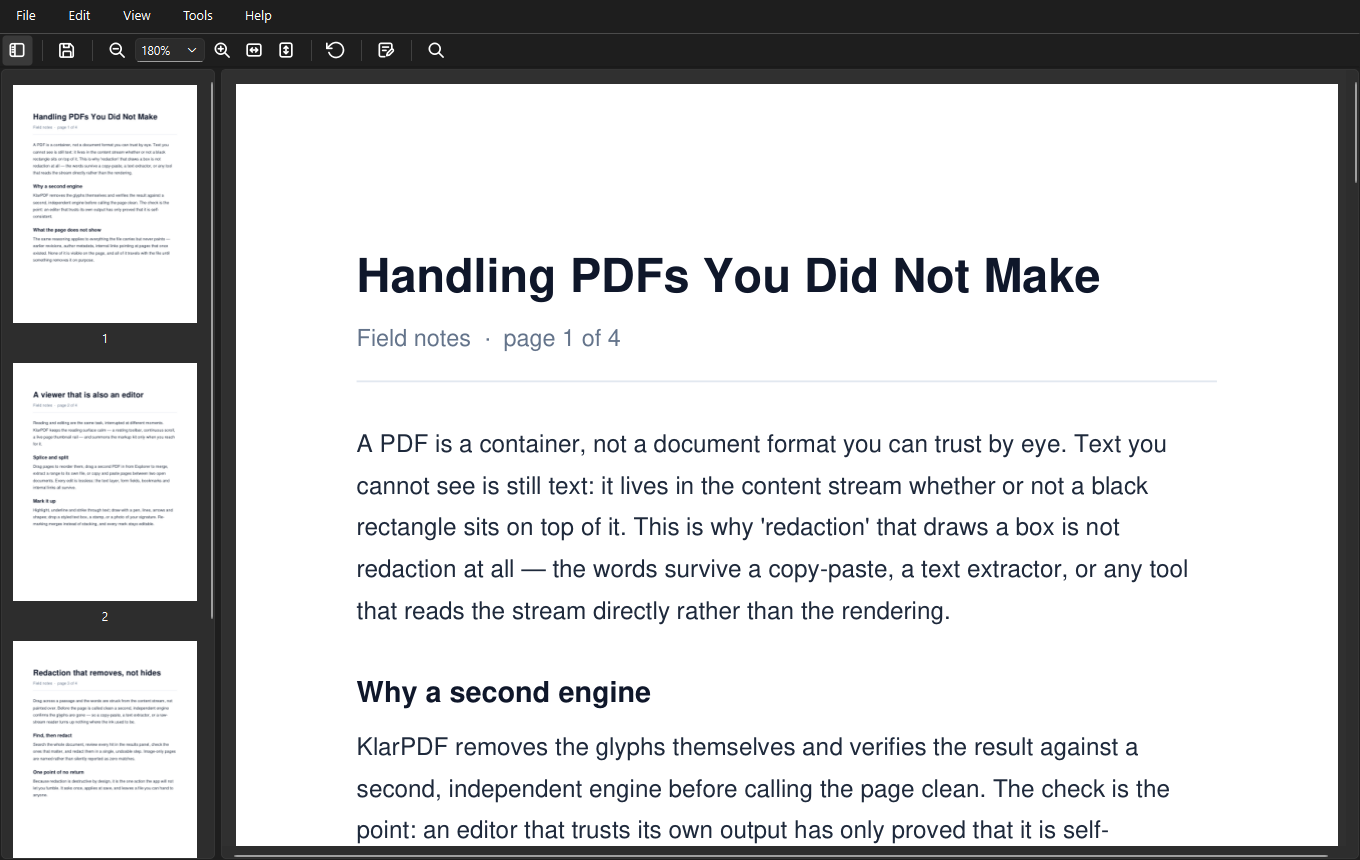
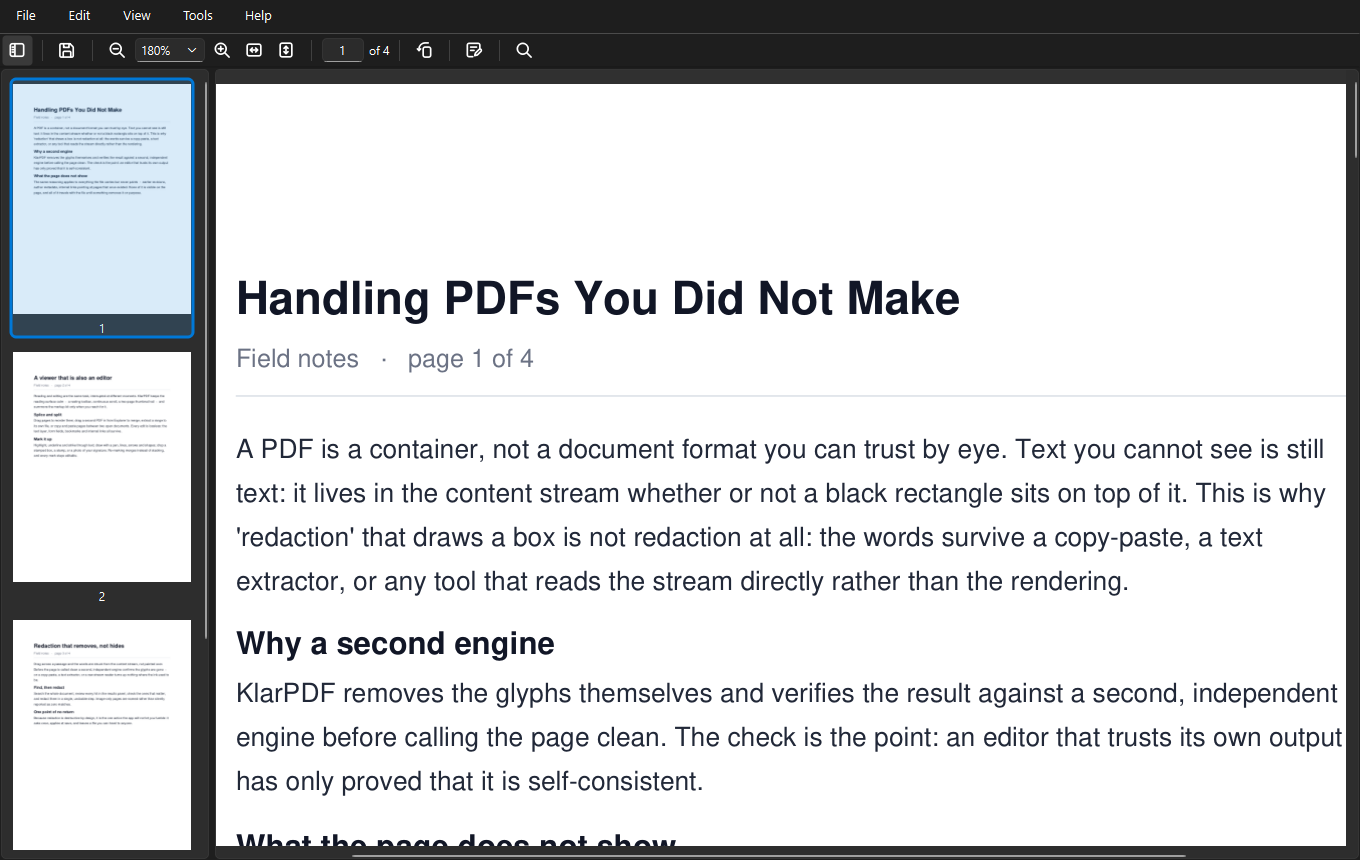
Release v0.17.0 — scrolling that behaves
Bumps version.py to 0.17.0 and updates the three status surfaces together
(README.md, PROGRESS.md, CLAUDE.md), per RELEASE.md section 3 step 2.

Ships M91 (whitespace fidelity, glyph legibility, reading position) and M92
(mouse-wheel scrolling): a wheel click now moves a defined, zoom-scaled
distance instead of a slice of the window, eased over 200 ms behind
View > Smooth Scrolling; the coast-mute is bounded so the wheel can never be
dead for long; prefetch is off the scroll's critical path, which was the whole
of the image-page stall; and the glide lands on the first/last page instead of
restarting into it. Reading also gains the editable page counter and
Space/PgUp/PgDn paging from anywhere.

README's Features inventory gains the two new user-facing entries (scrolling
behaviour + the page counter), per CLAUDE.md's rule that the inventory is
updated whenever a release adds or changes a user-facing feature.

Screenshots regenerated, and the recipe is now a committed tool. The v0.16
screenshots were captured by hand with the recipe unrecorded, so they had
silently rotted two milestones out of date - no page counter, the pre-M91.2
rotate glyph. tools/make_screenshots.py builds its own four-page demo document
(so a screenshot can never contain anything real) and captures both themes in
one run. Two things it has to do, both learned here and both now enforced in
the tool and corrected in BRAND.md:

  * The colour scheme must be forced BEFORE the window is created, one fresh
[…]

Changed region(s): [[0.0, 0.0907, 1.0, 0.9977], [0.2779, 0.0302, 0.3706, 0.0605]]

diff --git a/tools/make_screenshots.py b/tools/make_screenshots.py
@@ -1,0 +1,228 @@
+"""Regenerate the README app screenshots — `assets/screenshots/klarpdf-{light,dark}.png`.
+
+    .venv/Scripts/python.exe tools/make_screenshots.py
+
+**Why this file exists.** The v0.16 screenshots were captured by hand and the recipe was not kept,
+so by v0.17 they showed a toolbar two milestones out of date (no M91.3 page counter, the pre-M91.2
+rotate glyph) and nobody could tell without comparing pixel by pixel. `README.md` is the repo's shop
+window and `CLAUDE.md` already names it as the one file that must be updated on every release; this
+makes the screenshot part of that a command rather than an afternoon.
+
+**The document is generated here, on purpose.** It is written for the shot — four pages of plausible
+"field notes" about handling untrusted PDFs — so the screenshot never contains anything real. Never
+point this at a document off the machine: whatever is in frame is published to a public repo.
+
+**Theme is forced through `QStyleHints.setColorScheme()`**, not by changing a Windows setting. The
+app already follows the platform palette, so this drives the same code path a real theme switch
+does, and both shots come out of one run at identical geometry (`assets/brand/BRAND.md` §GitHub
+assets).
+"""
+
+from __future__ import annotations
+
+import os
+import sys
+import time
+
+sys.path.insert(0, os.path.dirname(os.path.dirname(os.path.abspath(__file__))))
+
+import pymupdf as fitz
+from PySide6.QtCore import Qt
+from PySide6.QtGui import QGuiApplication
+
+from app import PdfApp
+
+WIDTH, HEIGHT = 1360, 860          # what README.md has always been laid out against
+ZOOM = 1.8
+OUT = os.path.join(os.path.dirname(os.path.dirname(os.path.abspath(__file__))),
+                   "assets", "screenshots")
+
+TITLE = "Handling PDFs You Did Not Make"
+PAGES = [
+    ("Handling PDFs You Did Not Make", [
+        ("body",
+         "A PDF is a container, not a document format you can trust by eye. Text you cannot see is "
+         "still text: it lives in the content stream whether or not a black rectangle sits on top of "
+         "it. This is why 'redaction' that draws a box is not redaction at all: the words "
+         "survive a copy-paste, a text extractor, or any tool that reads the stream directly rather "
+         "than the rendering."),
+        ("head", "Why a second engine"),
+        ("body",
+         "KlarPDF removes the glyphs themselves and verifies the result against a second, "
+         "independent engine before calling the page clean. The check is the point: an editor that "
+         "trusts its own output has only proved that it is self-consistent."),
+        ("head", "What the page does not show"),
+        ("body",
+         "The same reasoning applies to everything the file carries but never paints — earlier "
+         "revisions, author metadata, internal links pointing at pages that once existed. None of it "
+         "is visible on the page, and all of it travels with the file until something removes it on "
+         "purpose."),
+    ]),
+    ("A viewer that is also an editor", [
+        ("body",
+         "Reading and editing are the same task, interrupted at different moments. KlarPDF keeps the "
+         "reading surface calm — a resting toolbar, continuous scroll, a two-page thumbnail rail "
+         "— and summons the markup kit only when you reach for it."),
+        ("head", "Splice and split"),
+        ("body",
+         "Drag pages to reorder them, drag a second PDF in from Explorer to merge, extract a range to "
+         "its own file, or copy and paste pages between two open documents. Every edit is lossless: "
+         "the text layer, form fields, bookmarks and internal links all survive."),
+        ("head", "Mark it up"),
+        ("body",
+         "Highlight, underline and strike through text; draw with a pen, lines, arrows and shapes; "
+         "drop a stamped box, a stamp, or a photo of your signature. Re-marking merges instead of "
+         "stacking, and every mark stays editable."),
+    ]),
+    ("Redaction that removes, not hides", [
+        ("body",
+         "Drag across a passage and the words are struck from the content stream, not painted over. "
+         "Before the page is called clean a second, independent engine confirms the glyphs are gone "
+         "— on a copy-paste, a text extractor, or a raw stream reader turns up nothing where the "
+         "ink used to be."),
+        ("head", "Find, then redact"),
+        ("body",
+         "Search the whole document, review every hit in the results panel, check the ones that "
+         "matter, and redact them in a single, undoable step. Image-only pages are named rather than "
+         "silently reported as zero matches."),
+        ("head", "One point of no return"),
+        ("body",
+         "Because redaction is destructive by design, it is the one action the app will not let you "
+         "fumble: it asks once, applies at save, and leaves a file you can hand to anyone."),
+    ]),
+    ("Offline, pinned, auditable", [
+        ("body",
+         "KlarPDF makes no network calls at all — no telemetry, no update check, no font or asset "
+         "fetch. The installer is built from a hash-pinned lock against a vendored wheel cache, so a "
+         "rebuild of the same tag produces the same dependency set."),
+        ("head", "Your files stay yours"),
+        ("body",
+         "Documents are opened from disk and written back to disk. Nothing is uploaded, nothing is "
+         "cached anywhere but your own machine, and the only thing the app remembers between sessions "
+         "is which page you were reading."),
+        ("head", "Open source"),
+        ("body",
+         "AGPL-3.0-or-later, with the corresponding source for every release tagged in this "
+         "repository."),
+    ]),
+]
+
+
+#: Characters the base-14 fonts render as "?" — normalised in one place rather than policed in the
+#: prose above, because a single missed em-dash puts a question mark in the repo's shop window (it
+#: did, on this tool's first run).
+_SUBSTITUTIONS = {"—": " - ", "–": "-", "‘": "'", "’": "'",
+                  "“": '"', "”": '"'}
+
+
+def _plain(text: str) -> str:
+    for bad, good in _SUBSTITUTIONS.items():
+        text = text.replace(bad, good)
+    return text
+
+
+def build_document(path: str) -> None:
+    doc = fitz.open()
+    for number, (heading, blocks) in enumerate(PAGES, start=1):
+        page = doc.new_page(width=612, height=792)
+        y = 96
+        page.insert_text((72, y), _plain(heading), fontsize=19, fontname="hebo",
+                         color=(0.07, 0.09, 0.15))
+        y += 22
+        page.insert_text((72, y), f"Field notes   ·   page {number} of {len(PAGES)}",
+                         fontsize=10.5, fontname="helv", color=(0.42, 0.45, 0.52))
+        y += 12
+        page.draw_line(fitz.Point(72, y), fitz.Point(540, y), color=(0.85, 0.87, 0.90), width=0.6)
+        y += 26
+        for kind, text in blocks:
+            if kind == "head":
+                y += 8
+                page.insert_text((72, y), _plain(text), fontsize=13, fontname="hebo",
+                                 color=(0.07, 0.09, 0.15))
+                y += 20
+                continue
+            box = fitz.Rect(72, y - 12, 540, y + 200)
+            used = page.insert_textbox(box, _plain(text), fontsize=11, fontname="helv",
+                                       lineheight=1.55, color=(0.13, 0.16, 0.22))
+            y += (200 - used) + 14
+    doc.save(path)
+    doc.close()
+
+
+def capture(app, doc_path: str, scheme, name: str) -> None:
+    """Open a **fresh window** under ``scheme`` and photograph it.
+
+    **The scheme is set before the window exists, and that is the whole trick.** Setting it on a
+    window already built leaves Qt's own text widgets unpainted: measured, the page field held "1"
+    and reported itself visible, yet both it and the zoom box photographed **blank**, so the first
+    pass of this tool produced a shop-window screenshot with a hollow toolbar. Widgets pick the
+    palette up when they are polished, so a fresh window under the new scheme renders correctly.
+    """
+    QGuiApplication.styleHints().setColorScheme(scheme)
+    for _ in range(10):
+        app.processEvents()
+
+    win = app.open_document(doc_path)
+    win.resize(WIDTH, HEIGHT)
+    win.show()
+    app.processEvents()
+
+    # The sidebar is what the shot is framed around; the zoom makes the body text legible at the
+    # width README renders it. Both are set after show(), so the fit does not overwrite them.
+    win.pages_dock.setVisible(True)
+    win.view.set_zoom(ZOOM)
+    win.view.goto_page(0)
+    app.processEvents()
+    # Both toolbar fields are driven by *signals* (`zoomChanged`, `currentPageChanged`), and neither
+    # fires when the value it would announce is the one already held — `set_zoom` returns early on an
+    # unchanged zoom, and page 0 was already current. So a scripted setup can leave the boxes
+    # **blank**, which is exactly how the first run of this tool came out. Ask them to show their
+    # value directly; they read it back from the view, which is the source of truth either way.
+    win.zoom_widget.show_zoom(win.view.zoom)
+    win.page_widget.show_page(win.view.current_page)
+    win.page_widget.show_count()
+    # Frame the page against the top of the strip rather than the scene's margin.
+    win.view.verticalScrollBar().setValue(win.view.verticalScrollBar().minimum())
+    app.processEvents()
+
+    win.raise_()
+    win.activateWindow()
+    deadline = time.monotonic() + 2.0        # let the first render and the thumbnails land
+    while time.monotonic() < deadline:
+        app.processEvents()
+
+    # **`QWidget.grab()` is not usable here** either: it re-renders the tree offscreen, and in that
+    # path the same text widgets come out empty. Grabbing the composited window from the screen
+    # captures what a reader actually sees, which is what a screenshot is for.
+    screen = win.screen() or QGuiApplication.primaryScreen()
+    image = screen.grabWindow(win.winId()).toImage()
+    if image.width() != WIDTH or image.height() != HEIGHT:
+        image = image.scaled(WIDTH, HEIGHT, Qt.AspectRatioMode.IgnoreAspectRatio,
+                             Qt.TransformationMode.SmoothTransformation)
+    out = os.path.join(OUT, name)
+    image.save(out, "PNG")
+    blank = not win.page_widget.field.text() or not win.zoom_widget.currentText()
+    print(f"wrote {out}  {image.width()}x{image.height()}"
+          f"{'   WARNING: a toolbar field is empty' if blank else ''}")
+
+    win.undo_stack.setClean()
+    win.close()
+    app.processEvents()
+
+
+def main() -> None:
+    if "QT_QPA_PLATFORM" in os.environ:
+        sys.exit("run this on a real display — an offscreen grab loses the native palette")
+    os.makedirs(OUT, exist_ok=True)
+    doc_path = os.path.join(OUT, "_demo.pdf")
+    build_document(doc_path)
+
+    app = PdfApp.instance() or PdfApp([])
+    capture(app, doc_path, Qt.ColorScheme.Light, "klarpdf-light.png")
+    capture(app, doc_path, Qt.ColorScheme.Dark, "klarpdf-dark.png")
+    QGuiApplication.styleHints().setColorScheme(Qt.ColorScheme.Unknown)
+    os.remove(doc_path)
+
+
+if __name__ == "__main__":
+    main()

diff --git a/version.py b/version.py
@@ -7,4 +7,4 @@ followed by a new tag — versions never change automatically.
 
 from __future__ import annotations
 
-__version__ = "0.16.2"
+__version__ = "0.17.0"

diff --git a/PROGRESS.md b/PROGRESS.md
@@ -7,7 +7,40 @@ it merges, check the box here in the same PR and append the PR link.
 > release links, milestone ticks, and open follow-ups. `PLAN.md` (design/spec) and `CLAUDE.md`
 > (conventions) **link here, they don't restate it** — see CLAUDE.md §How we work → "Where things live".
 
-**Status:** ✅ **v0.16.2 shipped** — a reading-bar legibility fix, following the Preview model.
+**Status:** ✅ **v0.17.0 shipped** — **scrolling that behaves**, delivering **M91** (whitespace
+fidelity, glyph legibility, reading position) and **M92** (mouse-wheel scrolling). The wheel moves a
+**defined distance** — `wheelScrollLines × 32 px × zoom` — instead of Qt's `viewportHeight / 20`,
+which on the owner's full-height window threw the page **183 px, a fifth of a page, ten lines of body
+text per click**; the new rule is window-independent and zoom-scaled, measured at **87 px at Fit
+Page** (M92.1). Each step is **eased over 200 ms**, chosen with the wheel in hand against a live
+toggle, behind **View ▸ Smooth Scrolling** (M92.2). Using it then surfaced three more defects, each
+measured before it was fixed: the coast-mute was **indefinitely renewable**, so the wheel could stay
+dead for as long as the reader kept scrolling (M92.3); **prefetch was being paid on the scroll's
+critical path**, which is the whole of the image-page stall — visible-page rendering costs 0 ms at
+every zoom (M92.4); and the glide **restarted its curve against a clamped target**, so arriving at
+page 1 sped up twice while stopping and then crawled the last 23 px for 240 ms (M92.5). M91 brought
+the **page counter**, `Space`/`PgUp`/`PgDn` paging from anywhere including the sidebar, leading-space
+fidelity in text boxes, and a Rotate glyph that no longer reads as Undo.
+1650 headless tests green (3 expected skips — two Poppler `pdftotext` cross-checks, one off-Windows
+mutex guard).
+
+**Toward 1.0 (owner call, 2026-08-01).** The feature roadmap is complete, and **1.0 was deliberately
+not taken here**: on a public repo it is a claim about readiness for *other people*, and what remains
+open is almost entirely in that category. The gate, all small and all concrete:
+
+- [ ] **Clean-machine install** — the one deferred M9 item: `klarpdf-setup-x64.exe` on Windows with
+  **no Python and networking disabled**. It is the first thing a stranger does and has never been
+  watched. (Win10 Home has no Sandbox → VirtualBox / spare machine / fresh local user.)
+- [ ] **The Donate link points at a Sponsors listing that does not exist** — and it *redirects*
+  rather than 404s, so no test can catch it. A dead link inside the app.
+- [ ] **Two known flaky tests** (`test_single_instance`, the save path's `os.replace`) — `pytest` is
+  a required check, so a flake is both a red X on a stranger's first CI run and a merge blocker.
+- [ ] **Item E — background rendering** (`PLAN.md` §Deferred): 1–3 s of frozen UI per page per zoom
+  on image-heavy documents. Its gate is already met; this is scheduling, not justification.
+- **Code signing** stays deferred (needs a certificate) — it is the one gate item that may never be
+  purchasable, so it is explicitly *not* a blocker for 1.0.
+
+**v0.16.2** — a reading-bar legibility fix, following the Preview model.
 Undo/Redo and rotate-left/right were four mirrored curved-arrow glyphs that read as two
 near-identical pairs at toolbar size, so the resting **reading bar** now drops **Undo/Redo** and the
 **second rotate direction**, leaving a single Rotate button as its only curved arrow — exactly what

diff --git a/README.md b/README.md
@@ -29,11 +29,16 @@ the unit of audit; it ships as a pinned, fully offline Windows installer.
 <p align="center"><sub>The real app, captured from a real build — and it follows the Windows theme, so
 this screenshot follows your GitHub one.</sub></p>
 
-**Status: `v0.16.2` shipped** — [download the installer or portable exe](https://github.com/utyagi24/klarpdf/releases/latest).
-**New in v0.16.2:** a calmer reading bar — **Undo/Redo** and the second **Rotate** button leave the
-toolbar (four near-identical curved-arrow glyphs read as two confusable pairs), following Preview's
-own toolbar. Nothing is lost: undo/redo stay on **Ctrl+Z / Ctrl+Y** and the Edit menu, and **Rotate
-Right** stays on **Ctrl+R**, the Edit menu, and the page right-click menu.
+**Status: `v0.17.0` shipped** — [download the installer or portable exe](https://github.com/utyagi24/klarpdf/releases/latest).
+**New in v0.17.0 — scrolling that behaves:** the mouse wheel now moves a **defined distance** instead
+of a slice of the window (Qt's default made one click throw a full-height window a fifth of a page —
+ten lines of text), and that distance **scales with zoom**, so a click always covers the same amount
+of document. Each step is **eased over 200 ms** rather than teleported — on by default, and
+switchable at **View ▸ Smooth Scrolling**. Three defects found by using it went with it: the wheel
+could stop responding for as long as you kept scrolling after a keypress, image-heavy pages stalled
+the glide (page prefetch was being paid on the scroll's critical path), and arriving at the first or
+last page jerked instead of landing. Reading also gains an **editable page counter** on the toolbar,
+and **Space / PgUp / PgDn** now step by a page from anywhere, including the sidebar.
 Full release notes live on
 [GitHub Releases](https://github.com/utyagi24/klarpdf/releases); live status — milestones
 (**M0–M38 + R1–R6 complete**), per-release notes, open follow-ups — in [PROGRESS.md](PROGRESS.md).
@@ -46,6 +51,8 @@ Everything here works **fully offline**: the app makes no network connection, ev
 **Read & navigate**
 - **Two-tier toolbar** — a calm reading bar at rest; the markup kit appears only when you summon it.
 - **Continuous scroll** with zoom, a live readout, and sticky **Fit Width / Fit Page**.
+- **Scrolling that behaves** — a wheel click moves a defined distance that scales with zoom (not with your window size), eased over 200 ms; **Space / PgUp / PgDn** step a page from anywhere. Turn the easing off at **View ▸ Smooth Scrolling**.
+- **An editable page counter** on the toolbar — `[ 10 ] of 320`; type a number to jump.
 - **View modes** — **Full Screen** (F11), **Slideshow**, and a **Two-Page** facing layout.
 - **Select & copy** the real text layer; **Night mode** inverts the page (file, print and export stay true-colour).
 - **Search** with highlighted hits, next/previous, **Match case** + **Whole words**, and **List All** — every match with its context line, click to jump.

diff --git a/assets/brand/BRAND.md b/assets/brand/BRAND.md
@@ -100,9 +100,22 @@ the attribute and keeps the element). Brand colour can therefore only arrive thr
 
 - **Hero** — `github-hero-{light,dark}.svg`, 1200×300, the canonical gradient band with the white
   lockup, at the top of `README.md`.
-- **Screenshots** — `assets/screenshots/klarpdf-{light,dark}.png`: the real app, captured from a real
-  build by forcing `QStyleHints.setColorScheme()` (**not** by changing a Windows setting — the app
-  already follows the palette, so this drives the same code path a real theme switch does).
+- **Screenshots** — `assets/screenshots/klarpdf-{light,dark}.png`: the real app, regenerated with
+  **`tools/make_screenshots.py`** (`.venv/Scripts/python.exe tools/make_screenshots.py`, on a real
+  display). It builds its own four-page demo document, so a screenshot can never contain anything
+  real — never point it at a file off the machine, since whatever is in frame is published.
+  **Run it on every release**: these rotted silently once, showing a toolbar two milestones out of
+  date (no M91.3 page counter, the pre-M91.2 rotate glyph), because the original recipe was manual
+  and was not written down.
+
+  Two things it has to do, both learned the hard way and both now enforced in the tool:
+  **the colour scheme is forced before the window is created**, one fresh window per theme —
+  `setColorScheme()` on an existing window repaints the chrome but leaves Qt's own text widgets
+  unpainted, so the page field and zoom box photograph **blank** while reporting themselves visible
+  and populated; and the capture is **`QScreen.grabWindow()`**, not `QWidget.grab()`, which
+  re-renders offscreen and drops the same text. An earlier note here claimed forcing the scheme
+  "drives the same code path a real theme switch does" — measured, it does not, and that claim is
+  what made the blank fields look like a capture bug rather than a palette one.
 - **Social preview** — `social-preview.png`, 1280×640. Upload at **Settings ▸ General ▸ Social
   preview**; it is **manual**, there is no REST API for it. It is what renders when the repo link is
   pasted into Slack / X / Discord, and it is GitHub's `og:image`.

diff --git a/CLAUDE.md b/CLAUDE.md
@@ -134,7 +134,14 @@ workflow on Windows. Built **Windows-first** with Linux-ready seams.
   spare machine / a fresh local user with networking disabled.
 
 ## Status
-**Current: v0.16.2 shipped** — a reading-bar legibility patch: the resting reading bar drops
+**Current: v0.17.0 shipped** — **scrolling that behaves**: M91 (whitespace fidelity, glyph
+legibility, reading position) + M92 (mouse-wheel scrolling). A wheel click moves a defined,
+zoom-scaled distance instead of a slice of the window, eased over 200 ms behind **View ▸ Smooth
+Scrolling**; the coast-mute is bounded, prefetch is off the scroll's critical path, and the glide
+lands on the first/last page instead of restarting into it. Reading gains an editable page counter
+and `Space`/`PgUp`/`PgDn` paging from anywhere. **1.0 was deliberately not taken** — the gate (clean
+-machine install, the dead Donate link, two flaky tests, background rendering) is listed in
+`PROGRESS.md`. It supersedes **v0.16.2** — a reading-bar legibility patch: the resting reading bar drops
 **Undo/Redo** and the second **Rotate** button (they were four mirrored curved-arrow glyphs that read
 as two near-identical pairs), leaving one Rotate button, following Preview's toolbar; every verb
 stays on its shortcut + menu ([#194](https://github.com/utyagi24/klarpdf/pull/194)). It refines
